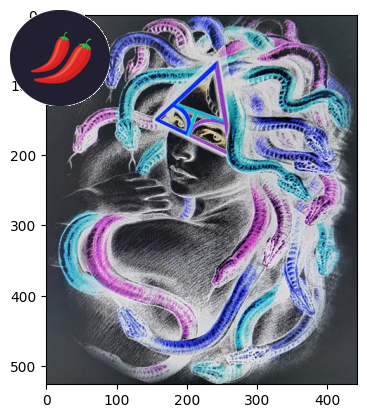
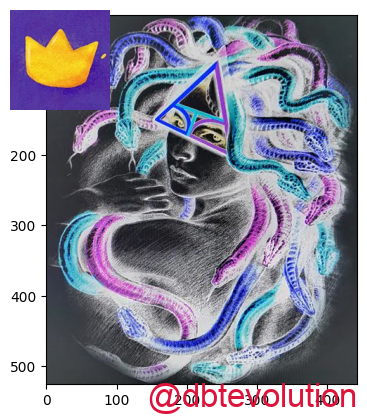
updating the app

Changed region(s): [[0.03, 0.0, 0.2997, 0.2799], [0.3896, 0.9019, 0.9891, 0.9952]]

diff --git a/templates/index.html b/templates/index.html
@@ -1,20 +1,9 @@
 {% include 'header.html' %}
 
-<div class="container">
+<div class="">
 
-    <div class="left-pane">
-        <h2 class="subtitle">Add Watermark Text</h2>
-        <p>👇🏿</p>
-        <form action="{{ url_for('add_watermark_text') }}" method="POST">
-            <button type="submit" class="btn btn-primary btn-block btn-large">Click to Add Text</button><hr>
-            <input type="text" name="watermark_text" placeholder="Enter the Watermark text" required>
-        </form>
-        {% if modified_image %}
-            <img src="{{ url_for('static', filename='uploads/' + modified_image) }}" alt="Chosen Image" class="chosen-image large-image">
-        {% endif %}
-    </div>
-
-    <div class="center-pane">
+    <div class="container">
+        <div class="first-pane">
         <h2 class="subtitle">Click to choose a picture</h2>
         <p>👇🏿</p>
         <form action="{{ url_for('choose_image') }}" method="POST" enctype="multipart/form-data">
@@ -30,9 +19,25 @@
         {% if chosen_image %}
             <img src="{{ url_for('static', filename='uploads/chosen_image.png') }}" alt="Chosen Image" class="chosen-image large-image">
         {% endif %}
+        </div>
     </div>
 
-    <div class="right-pane">
+    <div class="container">
+        <div class="second-pane">
+        <h2 class="subtitle">Add Watermark Text</h2>
+        <p>👇🏿</p>
+        <form action="{{ url_for('add_watermark_text') }}" method="POST">
+            <button type="submit" class="btn btn-primary btn-block btn-large">Click to Add Text</button><hr>
+            <input type="text" name="watermark_text" placeholder="Enter the Watermark text" required>
+        </form>
+        {% if modified_image %}
+            <img src="{{ url_for('static', filename='uploads/' + modified_image) }}" alt="Chosen Image" class="chosen-image large-image">
+        {% endif %}
+        </div>
+    </div>
+
+    <div class="container">
+        <div class="third-pane">
         <h2 class="subtitle">Add Watermark Logo</h2>
         <p>👇🏿</p>
         <form action="{{ url_for('add_watermark_logo') }}" method="POST" enctype="multipart/form-data">
@@ -48,7 +53,25 @@
         {% if logo_image %}
             <img src="{{ url_for('static', filename='/uploads/modified_image.png') }}" alt="Watermark Logo" class="chosen-image large-image">
         {% endif %}
+        </div>
     </div>
+
+
+    <div class="container">
+        <div class="fourth-pane">
+            <h2 class="subtitle">Add Watermark-text & Logo</h2>
+            <form action="{{ url_for('add_watermark_text_and_logo') }}" method="POST">
+                <button type="submit" class="btn btn-primary btn-block btn-large">Click to Add Text and Logo</button><hr>
+                <input type="text" name="watermark_text" placeholder="Enter the Watermark text" required>
+                {% if modified_image %}
+                    <img src="{{ url_for('static', filename='/uploads/modified_image.png') }}" alt="Chosen Image" class="chosen-image large-image">
+                {% endif %}
+            </form>
+        </div>
+    </div>
+
+</div>
+
 
         <!--{% if modified_image %}
         <div class="modified-image-container">
@@ -61,7 +84,6 @@
         </div>
         {% endif %}-->
 
-</div>
 
 
 <script>

diff --git a/static/css/styles.css b/static/css/styles.css
@@ -1,6 +1,12 @@
 h1 {
     color: #EB33FF;
+    font-family: 'Cardo'
 }
+
+h3 {
+    margin-top: 1rem;
+}
+
 body {
     font-family: Arial, sans-serif;
     text-align: center;
@@ -23,9 +29,10 @@ body {
     margin-top: 50px;
 }
 
-.left-pane,
-.center-pane,
-.right-pane {
+.first-pane,
+.second-pane,
+.third-pane,
+.fourth-pane {
     width: 30%;
 }
 
@@ -49,36 +56,33 @@ img {
     margin-top: 20px;
 }
 
-div .center-pane {
-    margin: 0 5%;
+div .first-pane,
+div .second-pane,
+div .third-pane,
+div .fourth-pane {
+    margin: 0;
+    width: 91%;
 }
 
 /* Override conflicting styles for the chosen image */
-.container .center-pane img.chosen-image {
+.container .first-pane img.chosen-image,
+.container .second-pane img.chosen-image,
+.container .third-pane img.chosen-image
+.container .fourth-pane img.chosen-image {
     max-width: none; /* Remove the maximum width to allow the image to expand */
     width: 100%; /* Set the width to 100% to make the image fill the container */
     height: auto; /* Automatically adjust the height to maintain the aspect ratio */
-    margin: 19px; /* Add margin to give the image some spacing */
     border: 1px solid white; /* Optional: Add a border to make the image stand out */
     padding: 1rem;
 }
 
-.container .right-pane img.chosen-image {
+.container .fifth-pane img.chosen-image {
     max-width: none; /* Remove the maximum width to allow the image to expand */
     width: 100%; /* Set the width to 100% to make the image fill the container */
     height: auto; /* Automatically adjust the height to maintain the aspect ratio */
-    margin: 19px; /* Add margin to give the image some spacing */
     border: 1px solid white; /* Optional: Add a border to make the image stand out */
     padding: 1rem;
-}
-
-.container .left-pane img.chosen-image {
-    max-width: none; /* Remove the maximum width to allow the image to expand */
-    width: 100%; /* Set the width to 100% to make the image fill the container */
-    height: auto; /* Automatically adjust the height to maintain the aspect ratio */
-    margin: 19px; /* Add margin to give the image some spacing */
-    border: 1px solid white; /* Optional: Add a border to make the image stand out */
-    padding: 1rem;
+    margin-bottom: 3rem;
 }
 
 .custom-file-upload input[type="file"] {
@@ -99,11 +103,12 @@ div .center-pane {
 
 /* Add or modify the following styles for the input element */
 input[type="text"], input[type="file"], input[type="image"], input[type="checkbox"], input[type="radio"] {
+    font-family: 'Cardo';
     /* Adjust the padding to make the input field smaller */
-    padding:9px 5px;
+    padding:19px 37px;
 
     /* Adjust the font size to make the text inside the input field smaller */
-    font-size: 7px;
+    font-size: 19px;
 
     /* Optionally, you can set a fixed width to make the input field smaller */
     /* width: 150px; */

diff --git a/templates/footer.html b/templates/footer.html
@@ -1,7 +1,7 @@
     <h3 style="color:#40B5AD">Be good, doing good, by Acting Good ¡!¡</h3>
     <!-- Footer -->
     <footer>
-      <div class="container container-margin">
+      <div class="container-fluid container-margin">
         <div class="row">
           <div class="col-lg-8 col-md-10 mx-auto">
             <ul class="list-inline text-center">

diff --git a/main.py b/main.py
@@ -71,7 +71,7 @@ def add_watermark_text():
 
         # Use the custom font from the "fonts" folder
         font_path = 'static/fonts/arial.ttf'
-        font_size = 37
+        font_size = 33
 
         # Use try-except block to handle any errors related to font loading
         try:
@@ -138,7 +138,7 @@ def handle_watermark_logo():
 
     if logo_image_path:
         img = Image.open(chosen_image_path)
-        draw = ImageDraw.Draw(img)
+        #draw = ImageDraw.Draw(img)
 
         # Load the watermark logo image
         logo_img = Image.open(logo_image_path)
@@ -149,7 +149,7 @@ def handle_watermark_logo():
         # Resize the watermark logo while maintaining its aspect ratio
         logo_img.thumbnail(desired_logo_size)
 
-        # Calculate the position for the watermark logo at the top left corner
+        # Calculate the position for the watermark logo in the top left corner
         logo_x = 10
         logo_y = 10
 
@@ -166,6 +166,44 @@ def handle_watermark_logo():
         img.save(modified_image_path)
         # Store modified_image_path in session for persistence
         session['modified_image_path'] = modified_image_path
+
+
+@app.route('/add_watermark_text_and_logo', methods=['POST'])
+def add_watermark_text_and_logo():
+    global chosen_image_path, logo_image_path, modified_image_path
+
+    watermark_text = request.form['watermark_text']
+    if watermark_text:
+        # Retrieve the modified image with the logo from the session
+        modified_image_path = session.get('modified_image_path')
+
+        if modified_image_path:
+            img = Image.open(modified_image_path)
+            draw = ImageDraw.Draw(img)
+
+            # Load the custom font for the watermark text
+            font_path = 'static/fonts/arial.ttf'
+            font_size = 33
+            try:
+                font = ImageFont.truetype(font_path, font_size)
+
+                # Calculate text position and add watermark text
+                text_bbox = draw.textbbox((0, 0), watermark_text, font=font)
+                text_width = text_bbox[2] - text_bbox[0]
+                text_height = text_bbox[3] - text_bbox[1]
+                x = img.width - text_width - 10
+                y = img.height - text_height - 10
+                draw.text((x, y), watermark_text, fill='crimson', font=font)
+
+            except IOError:
+                # Use a default font if the custom font cannot be loaded
+                pass
+
+            # Save the modified image with watermark text
+            img.save(modified_image_path)
+
+    return render_template("index.html", chosen_image=chosen_image_path, logo_image=logo_image_path,
+                           modified_image=modified_image_path, BACKGROUND_COLOR=BACKGROUND_COLOR)
 
 
 @app.route('/save', methods=['POST'])
